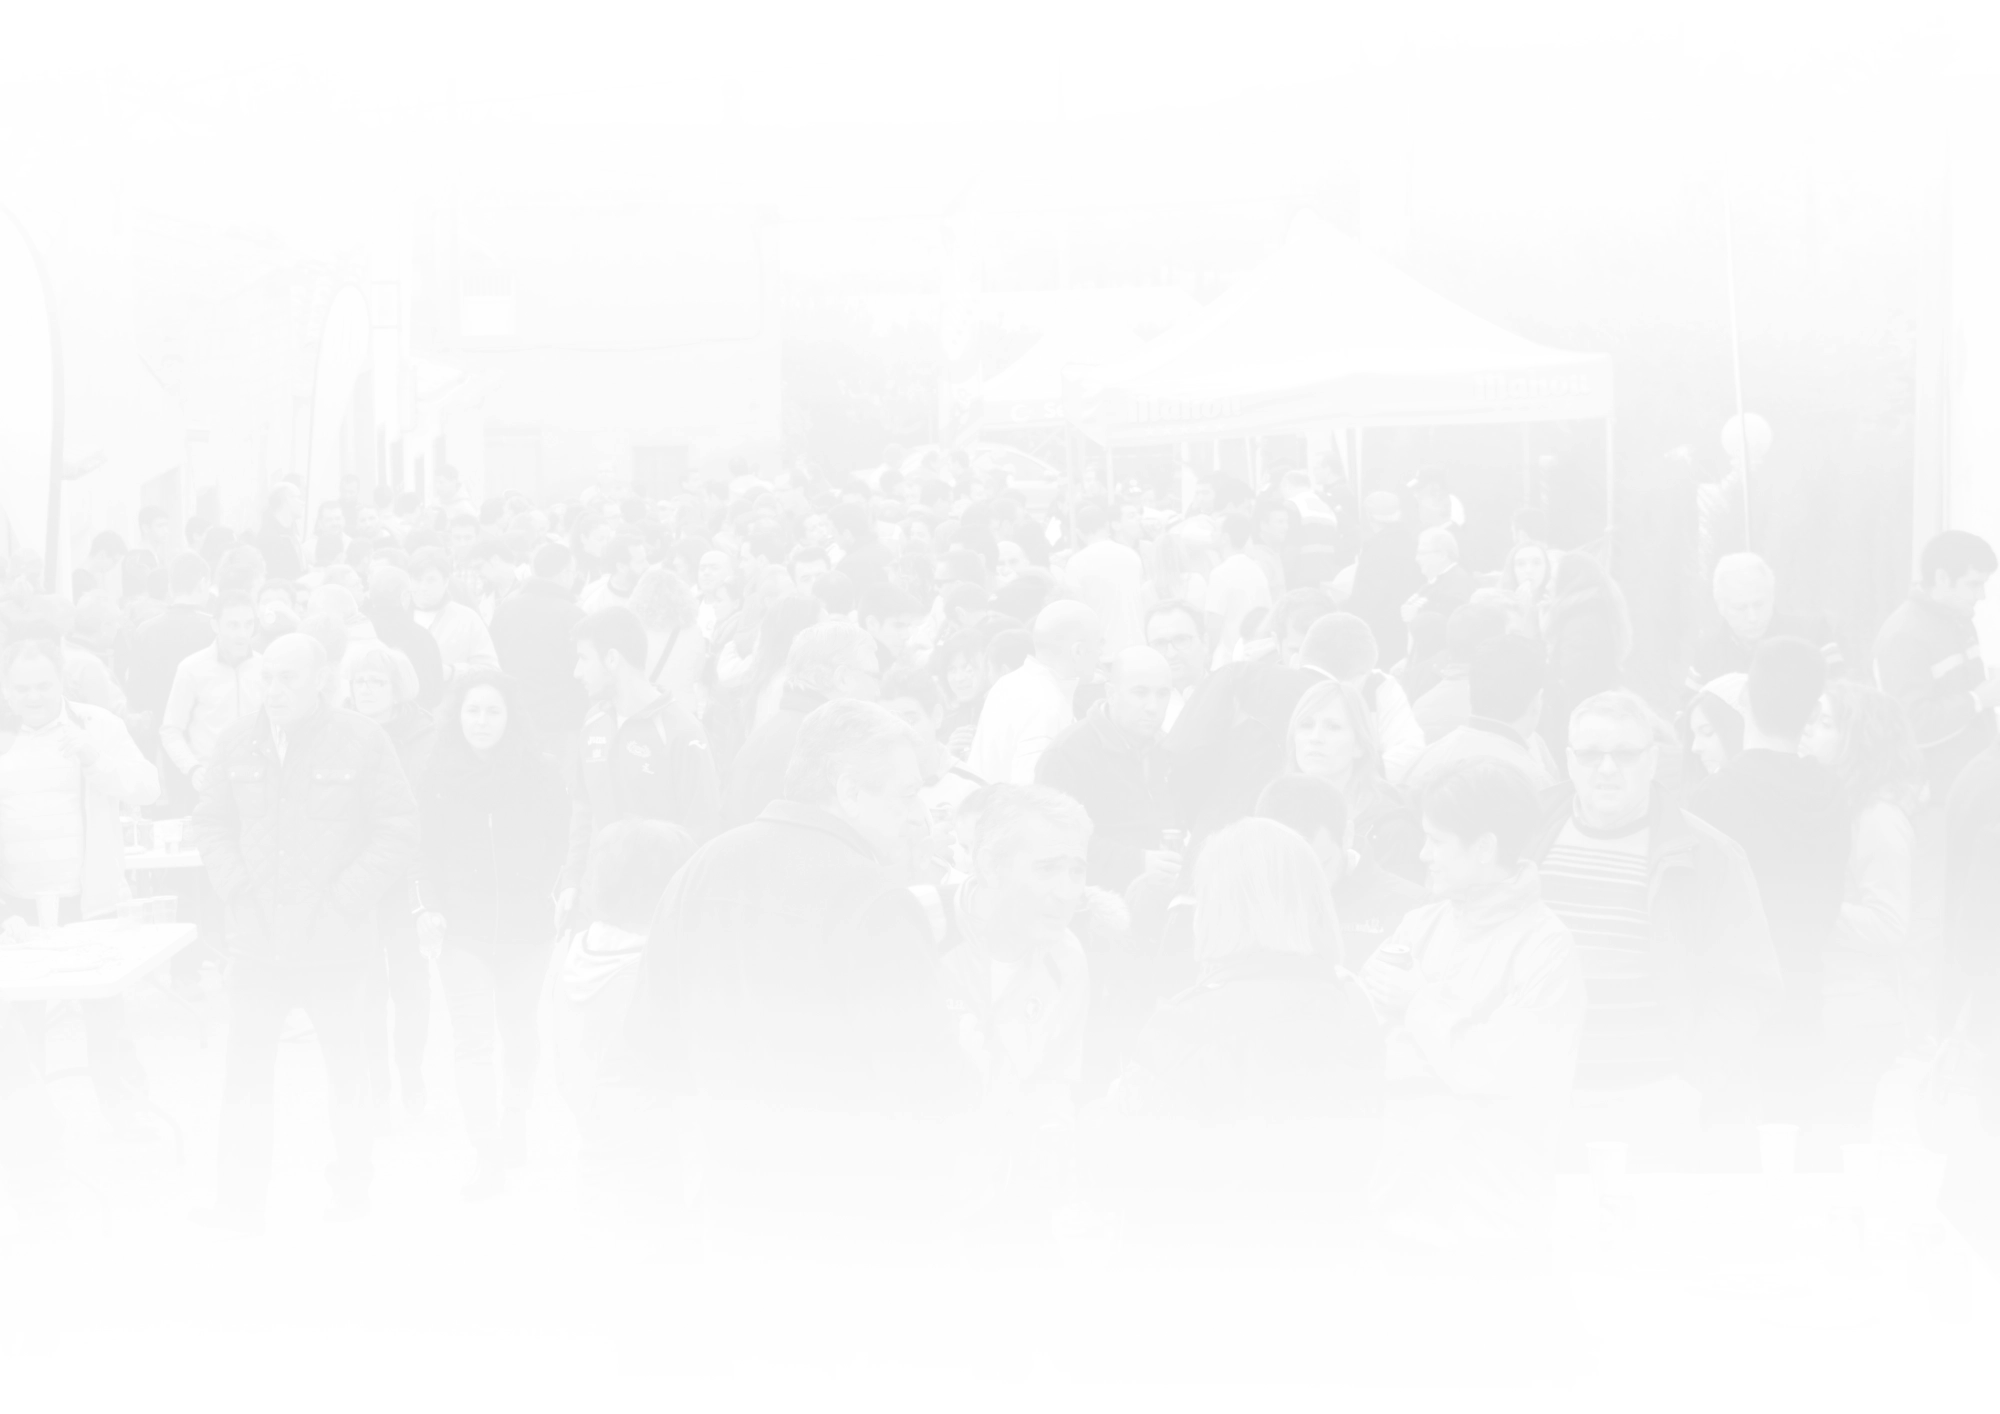
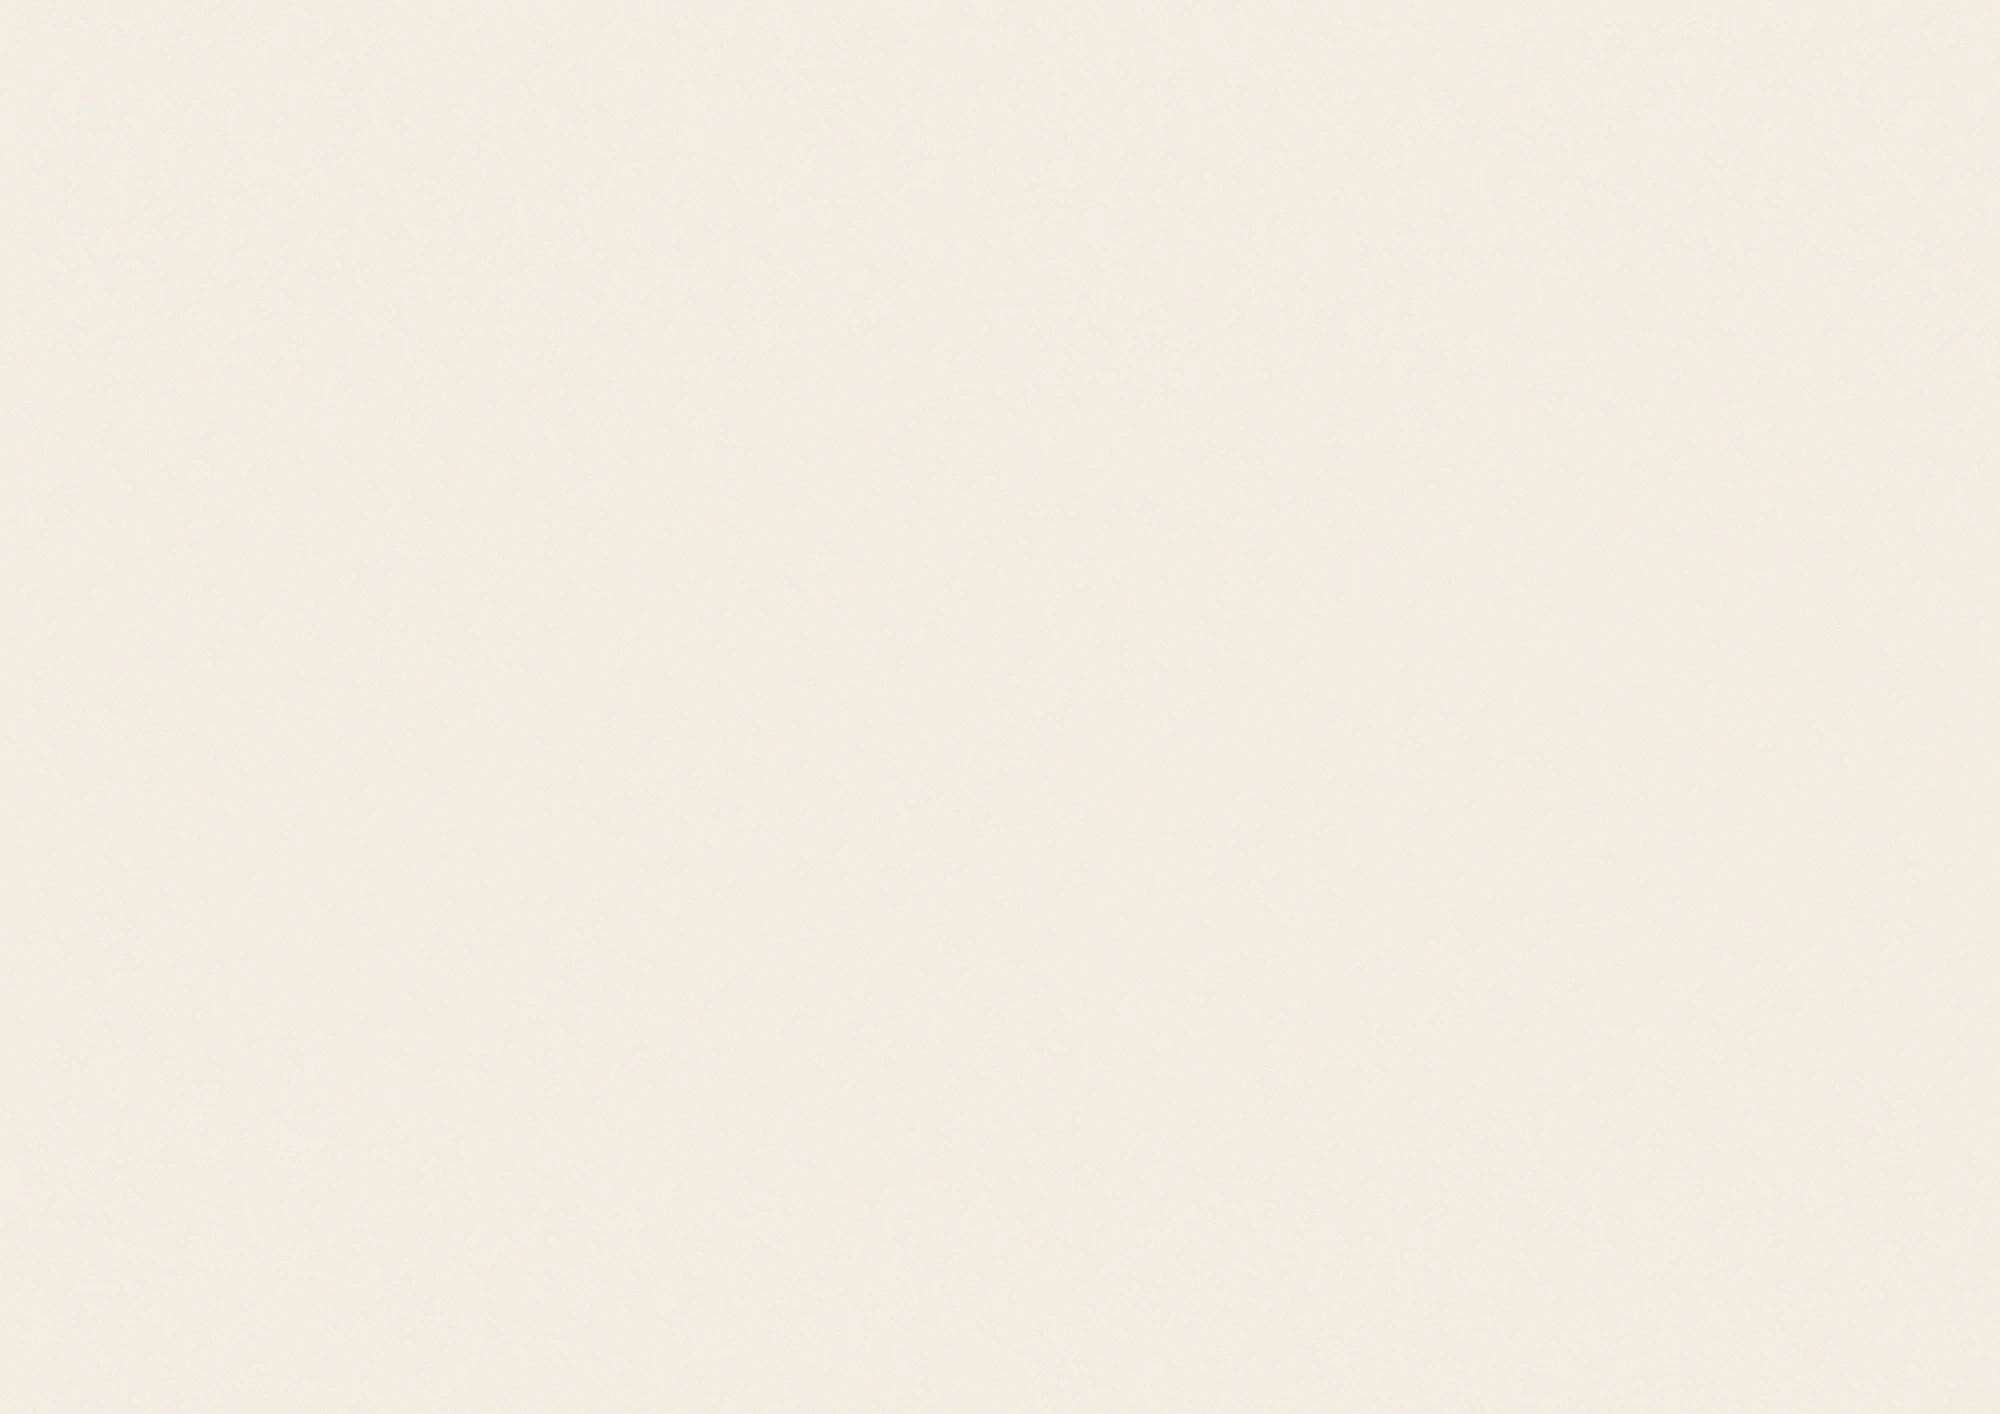
Actualizar contador e interfaz para la edición Sierra 2026
- Adaptar backend (index.js) a la URL de 2026 con doble estrategia de extracción (contador y tabla de inscritos) para 500 plazas.
- Actualizar cabecera (carrera.png/webp) y paleta de colores oficial (#DB1F1E y negro) en inscripciones.html y QR.
- Ajustar fondo crema texturizado (fondo2.webp) e incorporar pegatina troquelada 'I Love Sierra' (pegatina.png) con efecto 3D.
- Añadir simulación de inscripciones abiertas mediante tecla 'S' o parámetros URL (?simular=1).

diff --git a/inscripciones.html b/inscripciones.html
@@ -6,88 +6,103 @@
     <script src="https://cdn.tailwindcss.com"></script>
     <title>Inscripciones</title>
     <style>
-        @import url('https://fonts.googleapis.com/css2?family=Oswald:wght@500&family=Playfair+Display:wght@400;600;800&display=swap');
+        @import url('https://fonts.googleapis.com/css2?family=Oswald:wght@500;700&family=Playfair+Display:wght@400;600;800&display=swap');
         * {
             font-family: 'Oswald', sans-serif;
         }
    </style>
 </head>
-<body>
-    <div class="flex flex-row p-3 items-center w-screen h-screen bg-[url(fondo2.webp)] bg-cover bg-center">
+<body class="bg-[#F3EDE1]">
+    <div class="relative flex flex-row p-3 items-center w-screen h-screen bg-[url(fondo2.webp)] bg-cover bg-center overflow-hidden">
         <div style="zoom: 4;" class="w-full text-white p-2 flex flex-col justify-between items-center gap-2">
-            <img class="max-w-[180px]" src="carrera.png" alt="">
-            <div id="info-inscripciones" class="flex flex-col">
-                <h1 class="drop-shadow-md text-sm text-[#F37336]">INSCRIPCIONES RESTANTES</h1>
-                <h1 class="drop-shadow-md font-bold text-7xl text-center text-[#F37336]" id="inscripciones"></h1>
+            <img class="max-w-[180px]" src="carrera.png" alt="XII Carrera Popular Sierra 2026">
+            <div id="info-inscripciones" class="flex flex-col items-center">
+                <h1 class="drop-shadow-md text-sm text-[#111111] font-bold tracking-wide">INSCRIPCIONES RESTANTES</h1>
+                <h1 class="drop-shadow-md font-bold text-7xl text-center text-[#DB1F1E]" id="inscripciones"></h1>
             </div> 
             <div class="flex flex-col items-center" id="seccion-cronometro-grande">
-                <h1 class="text-sm text-[#F37336]">APERTURA DE INSCRIPCIONES EN:</h1>
-                <h2 class="text-6xl text-[#F37336]" id="cronometro-grande"></h2>
+                <h1 class="text-sm text-[#111111] font-bold tracking-wide">APERTURA DE INSCRIPCIONES EN:</h1>
+                <h2 class="text-6xl text-[#DB1F1E] font-bold" id="cronometro-grande"></h2>
             </div>
-            <h2 class="text-2xl text-[#F37336]" id="cronometro"></h2>
+            <h2 class="text-2xl text-[#DB1F1E] font-bold" id="cronometro"></h2>
         </div>
         <div style="zoom: 4;" class="mr-4">
-            <h3 class="text-[10px] text-center pb-2 text-[#F37336]">ESCANEA PARA INSCRIBIRTE</h3>
-            <img class="w-[90px] h-[90px] mix-blend-multiply" src="https://api.qrserver.com/v1/create-qr-code/?size=600x600&color=F37336&format=svg&data=https://www.inscripcionesweb.es/es/evento/sierra25.zhtm" alt="">
+            <h3 class="text-[10px] text-center pb-2 text-[#111111] font-bold">ESCANEA PARA INSCRIBIRTE</h3>
+            <img class="w-[90px] h-[90px] mix-blend-multiply" src="https://api.qrserver.com/v1/create-qr-code/?size=600x600&color=DB1F1E&format=svg&data=https://www.inscripcionesweb.es/es/evento/sierra26.zhtm" alt="Código QR inscripción">
         </div> 
+
+        <!-- Pegatina "I Love Sierra" abajo a la derecha con efecto adhesivo -->
+        <div class="absolute bottom-5 right-6 pointer-events-none select-none z-10">
+            <img src="pegatina.png" alt="I Love Sierra" class="w-52 md:w-64 lg:w-72 transform -rotate-[7deg] filter drop-shadow-[0_10px_16px_rgba(0,0,0,0.30)] drop-shadow-[0_2px_4px_rgba(0,0,0,0.18)]">
+        </div>
 
     <script type="module">
         import { io } from "https://cdn.socket.io/4.4.1/socket.io.esm.min.js";
         let socket = io('ws://contador-inscripciones-sierra.fly.dev')
         socket = io('ws://localhost:4000')
 
+        const params = new URLSearchParams(window.location.search);
+        let simulandoAbiertas = params.has('simular') || params.has('abiertas');
+        const plazasPorUrl = params.get('plazas');
+        let plazasSimuladasDefault = plazasPorUrl ? parseInt(plazasPorUrl) : 485;
+
         const contador = document.getElementById('inscripciones')
         socket.on('libres', (arg) => {
-            contador.innerHTML = arg;
+            if (!params.has('plazas')) {
+                contador.innerHTML = arg;
+            }
             console.log(arg)
         })
-
-        const idElemento = 'cronometro'
-
-        function iniciarCronometro(idElemento) {
-        let elemento = document.getElementById(idElemento);
 
         const infoInscripciones = document.getElementById('info-inscripciones')
         const cronometro = document.getElementById('cronometro')
         const seccionCronometroGrande = document.getElementById('seccion-cronometro-grande')
+        const cronometroGrande = document.getElementById('cronometro-grande')
 
-        let tiempoInicio = new Date(1763206200*1000);
+        // Apertura inscripciones Sierra 2026: 17/10/2026 12:30 (UTC+2) -> 1792233000
+        const tiempoInicioReal = new Date(1792233000 * 1000);
+        let tiempoInicioSimulado = new Date(Date.now() - 15 * 60 * 1000); // 15 min transcurridos
 
-        function actualizarCronometro() {
-            let tiempoActual = new Date()
-            let tiempoTranscurrido = tiempoActual - tiempoInicio;
-
-            let segundos = Math.floor(tiempoTranscurrido / 1000);
-            let minutos = Math.floor(segundos / 60);
-            let horas = Math.floor(minutos / 60);
-
-            segundos %= 60;
-            minutos %= 60;
-
-            if (tiempoTranscurrido < 0) {
-                infoInscripciones.style.display = "none"
-                cronometro.style.opacity = "0"
-                seccionCronometroGrande.style.display = "inherit"
-            } else {
-                infoInscripciones.style.display = "flex"
-                cronometro.style.opacity = "1"
-                seccionCronometroGrande.style.display = "none"
+        function toggleSimulacion() {
+            simulandoAbiertas = !simulandoAbiertas;
+            if (simulandoAbiertas) {
+                tiempoInicioSimulado = new Date(Date.now() - 15 * 60 * 1000);
             }
-
-            // Formateo para asegurar que siempre se muestren 2 dígitos en los números
-            let tiempoFormateado = `${Math.abs(horas).toString().padStart(2, '0')}:${Math.abs(minutos).toString().padStart(2, '0')}:${Math.abs(segundos).toString().padStart(2, '0')}`;
-            tiempoFormateado = new Date(Math.abs(tiempoTranscurrido)).toLocaleTimeString('es-ES', { timeZone: 'UTC'})
-
-            elemento.textContent = tiempoFormateado;
+            actualizarCronometros();
         }
 
-        actualizarCronometro(); // Actualizar al inicio para evitar un segundo de retraso
-        setInterval(actualizarCronometro, 1000); // Actualizar cada segundo
-    }
+        // Atajo de teclado: pulsar 'S' para alternar la simulación de inscripciones abiertas
+        window.addEventListener('keydown', (e) => {
+            if ((e.key === 's' || e.key === 'S') && e.target.tagName !== 'INPUT') {
+                toggleSimulacion();
+            }
+        });
 
-    // Ejemplo de uso: iniciar el cronómetro en un elemento con ID "cronometro"
-    iniciarCronometro('cronometro');
-    iniciarCronometro('cronometro-grande')
+        function actualizarCronometros() {
+            const tiempoInicio = simulandoAbiertas ? tiempoInicioSimulado : tiempoInicioReal;
+            const tiempoActual = new Date();
+            const tiempoTranscurrido = tiempoActual - tiempoInicio;
+
+            if (tiempoTranscurrido < 0) {
+                infoInscripciones.style.display = "none";
+                cronometro.style.opacity = "0";
+                seccionCronometroGrande.style.display = "inherit";
+            } else {
+                infoInscripciones.style.display = "flex";
+                cronometro.style.opacity = "1";
+                seccionCronometroGrande.style.display = "none";
+                if (simulandoAbiertas && (!contador.innerHTML || contador.innerHTML === '0' || params.has('plazas'))) {
+                    contador.innerHTML = plazasSimuladasDefault;
+                }
+            }
+
+            const tiempoFormateado = new Date(Math.abs(tiempoTranscurrido)).toLocaleTimeString('es-ES', { timeZone: 'UTC' });
+            cronometro.textContent = tiempoFormateado;
+            cronometroGrande.textContent = tiempoFormateado;
+        }
+
+        actualizarCronometros();
+        setInterval(actualizarCronometros, 1000);
     </script>
 </body>
 </html>

diff --git a/index.js b/index.js
@@ -11,17 +11,14 @@ const io = new Server(httpServer, {
     }
 });
 
-// const eventoUrl = 'https://www.inscripcionesweb.es/es/evento/sierra2024.zhtm'
-const eventoUrl = 'https://www.inscripcionesweb.es/es/evento/sierra25.zhtm'
-let plazasLibres = 0
+const eventoUrl = 'https://www.inscripcionesweb.es/es/evento/sierra26.zhtm?mostrar_inscritos=1'
+const PLAZAS_TOTALES = 500
+let plazasLibres = PLAZAS_TOTALES
 
 const obtenerInscripcionesLibres = async (eventoUrl) => {
     const browser = await puppeteer.launch({
         headless: true,
-        // args: ["--no-sandbox", "--disable-setuid-sandbox", "--disable-dev-shm-usage"],
-        // headless:false,
         args: ["--no-sandbox"],
-        // executablePath: '/usr/bin/google-chrome',
     })
     let plazasRestantes
     try {
@@ -31,13 +28,31 @@ const obtenerInscripcionesLibres = async (eventoUrl) => {
             timeout: 10000,
         })
 
-        await page.waitForSelector('.info_plazas')
-        const plazasOcupadas = await page.evaluate(() => {
-            const plazasOcupadas = document.querySelector('.info_plazas > p').innerHTML
-            return plazasOcupadas
-        })
-        const elements = plazasOcupadas.split('</strong>')
-        plazasRestantes = parseInt(elements[2])
+        plazasRestantes = await page.evaluate((defaultTotal) => {
+            // Estrategia 1: Selector clásico en .info_plazas si existiera un párrafo con las plazas libres
+            const paragraphs = Array.from(document.querySelectorAll('.info_plazas > p'))
+            const plazaP = paragraphs.find(p => {
+                const html = p.innerHTML.toLowerCase()
+                return html.split('</strong>').length >= 3 && (html.includes('plaza') || html.includes('libre'))
+            })
+            if (plazaP) {
+                const elements = plazaP.innerHTML.split('</strong>')
+                const parsed = parseInt(elements[2])
+                if (!isNaN(parsed)) return parsed
+            }
+
+            // Estrategia 2: Conteo de la lista de inscritos (?mostrar_inscritos=1)
+            const table = document.querySelector('table.table')
+            if (table) {
+                const rows = document.querySelectorAll('table.table tbody tr')
+                const inscritos = rows.length
+                const matchTotal = document.body.innerText.match(/LIMITE\s+INSCRITOS:\s*(\d+)/i)
+                const total = matchTotal ? parseInt(matchTotal[1]) : defaultTotal
+                return Math.max(0, total - inscritos)
+            }
+
+            return defaultTotal
+        }, PLAZAS_TOTALES)
     } catch (e) {
         console.error(e)
     } finally {
@@ -46,29 +61,26 @@ const obtenerInscripcionesLibres = async (eventoUrl) => {
     return plazasRestantes
 }
 
-// const plazasOcupadas = obtenerInscripcionesLibres(eventoUrl, plazasTotales)
-// // Wait for the promise to resolve
-// plazasOcupadas.then(plazasOcupadas => {
-//     console.log(plazasOcupadas)
-// })
-
 cron.schedule('*/15 * * * * *', async () => {
     try {
-        plazasLibres = await obtenerInscripcionesLibres(eventoUrl)
+        const libres = await obtenerInscripcionesLibres(eventoUrl)
+        if (libres !== undefined && !isNaN(libres)) {
+            plazasLibres = libres
+        }
     } catch (e) {
         console.error(e)
     }
     console.log(plazasLibres, new Date())
 })
 
-// plazasLibres = await obtenerInscripcionesLibres(eventoUrl)
-
 io.on('connection', (socket) => {
     console.log('connected socket')
-    cron.schedule('*/5 * * * * *', async () => {
-        // const plazasLibres = await obtenerInscripcionesLibres(eventoUrl)
+    socket.emit('libres', plazasLibres)
+    const task = cron.schedule('*/5 * * * * *', async () => {
         socket.emit('libres', plazasLibres)
-        // console.log(plazasLibres, new Date())
+    })
+    socket.on('disconnect', () => {
+        task.stop()
     })
 })
 
